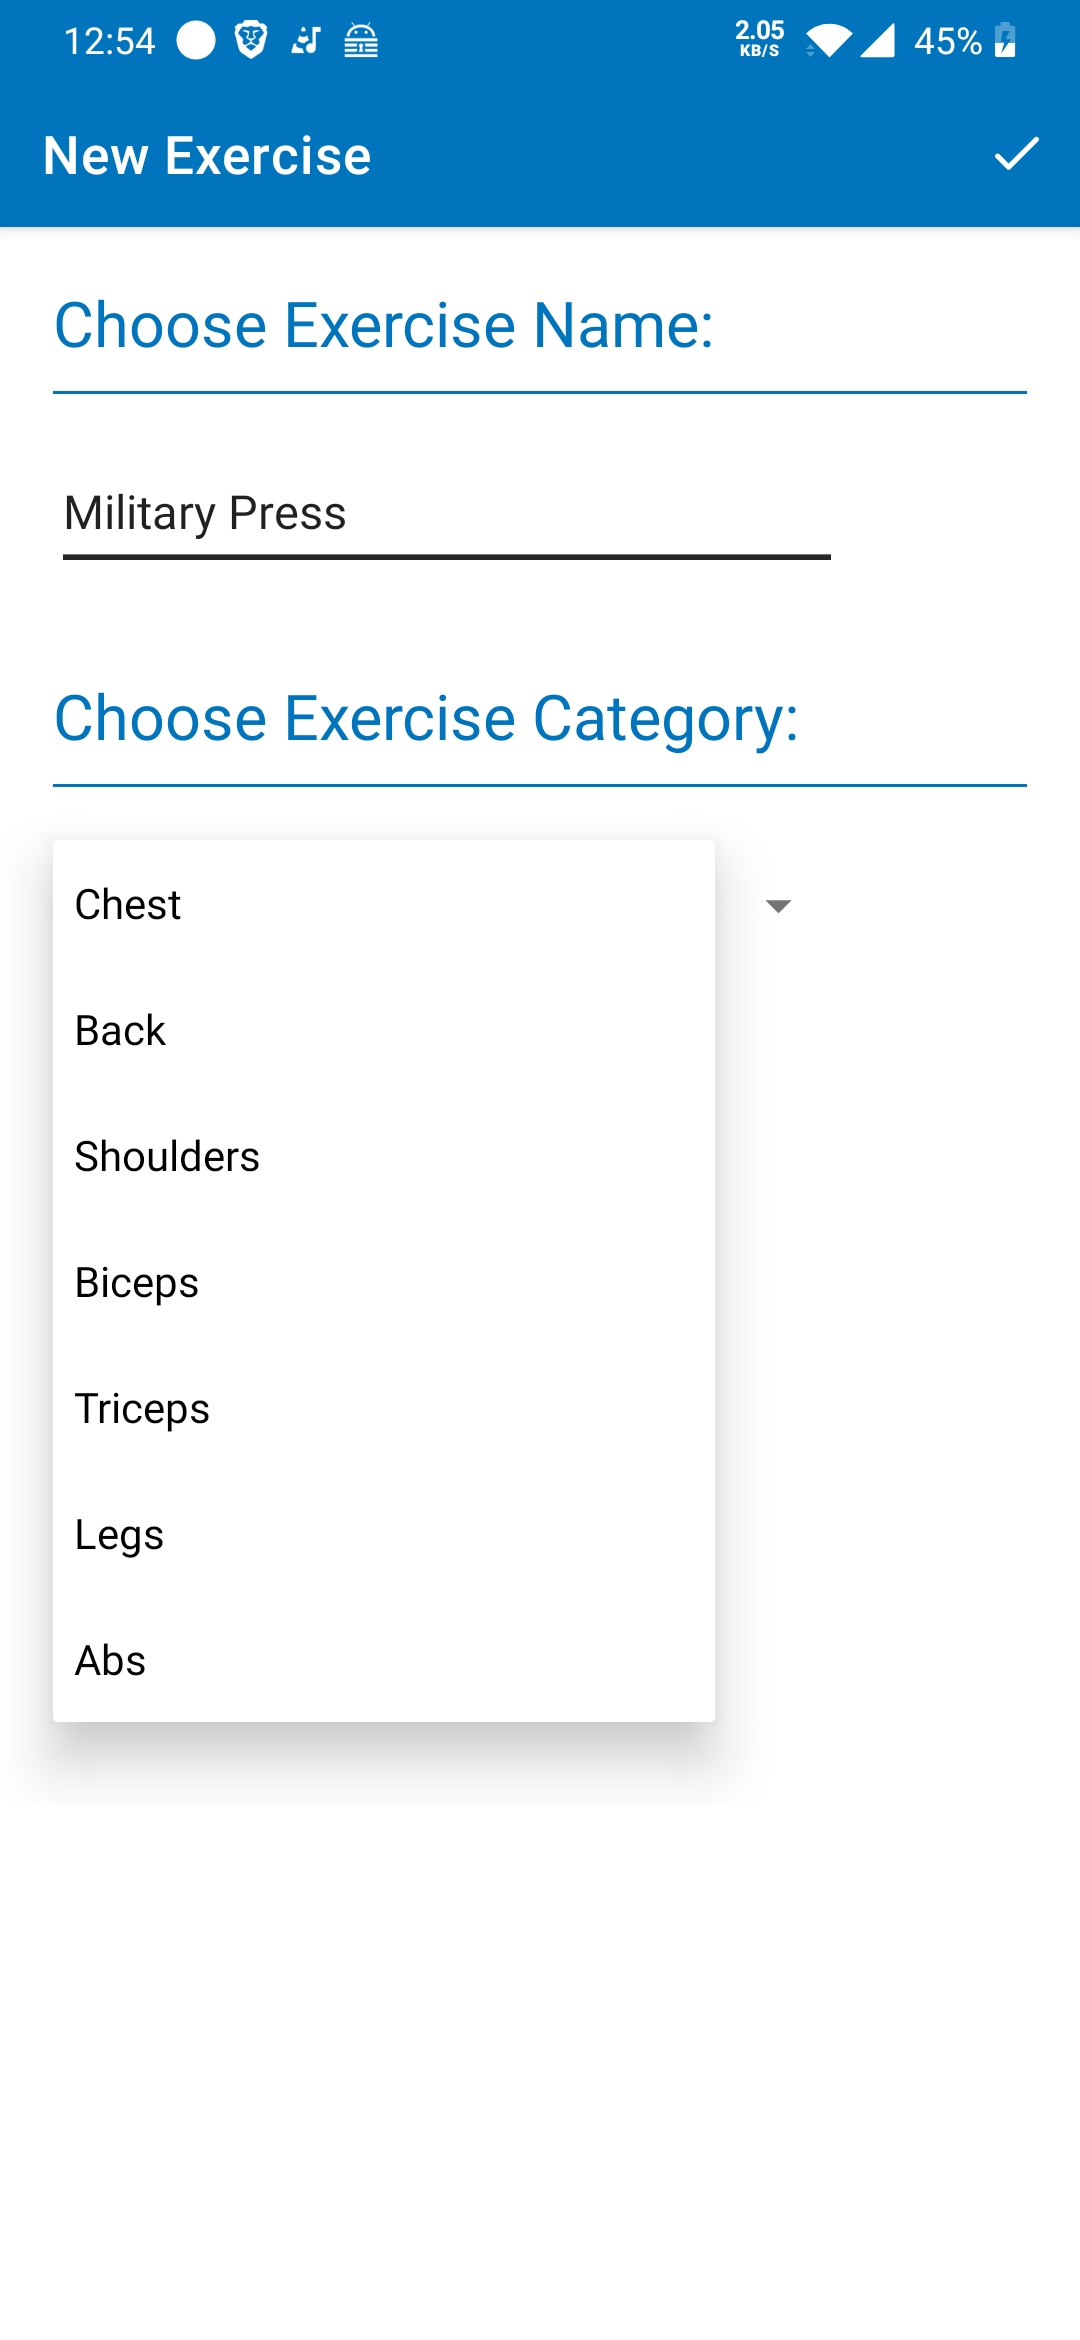
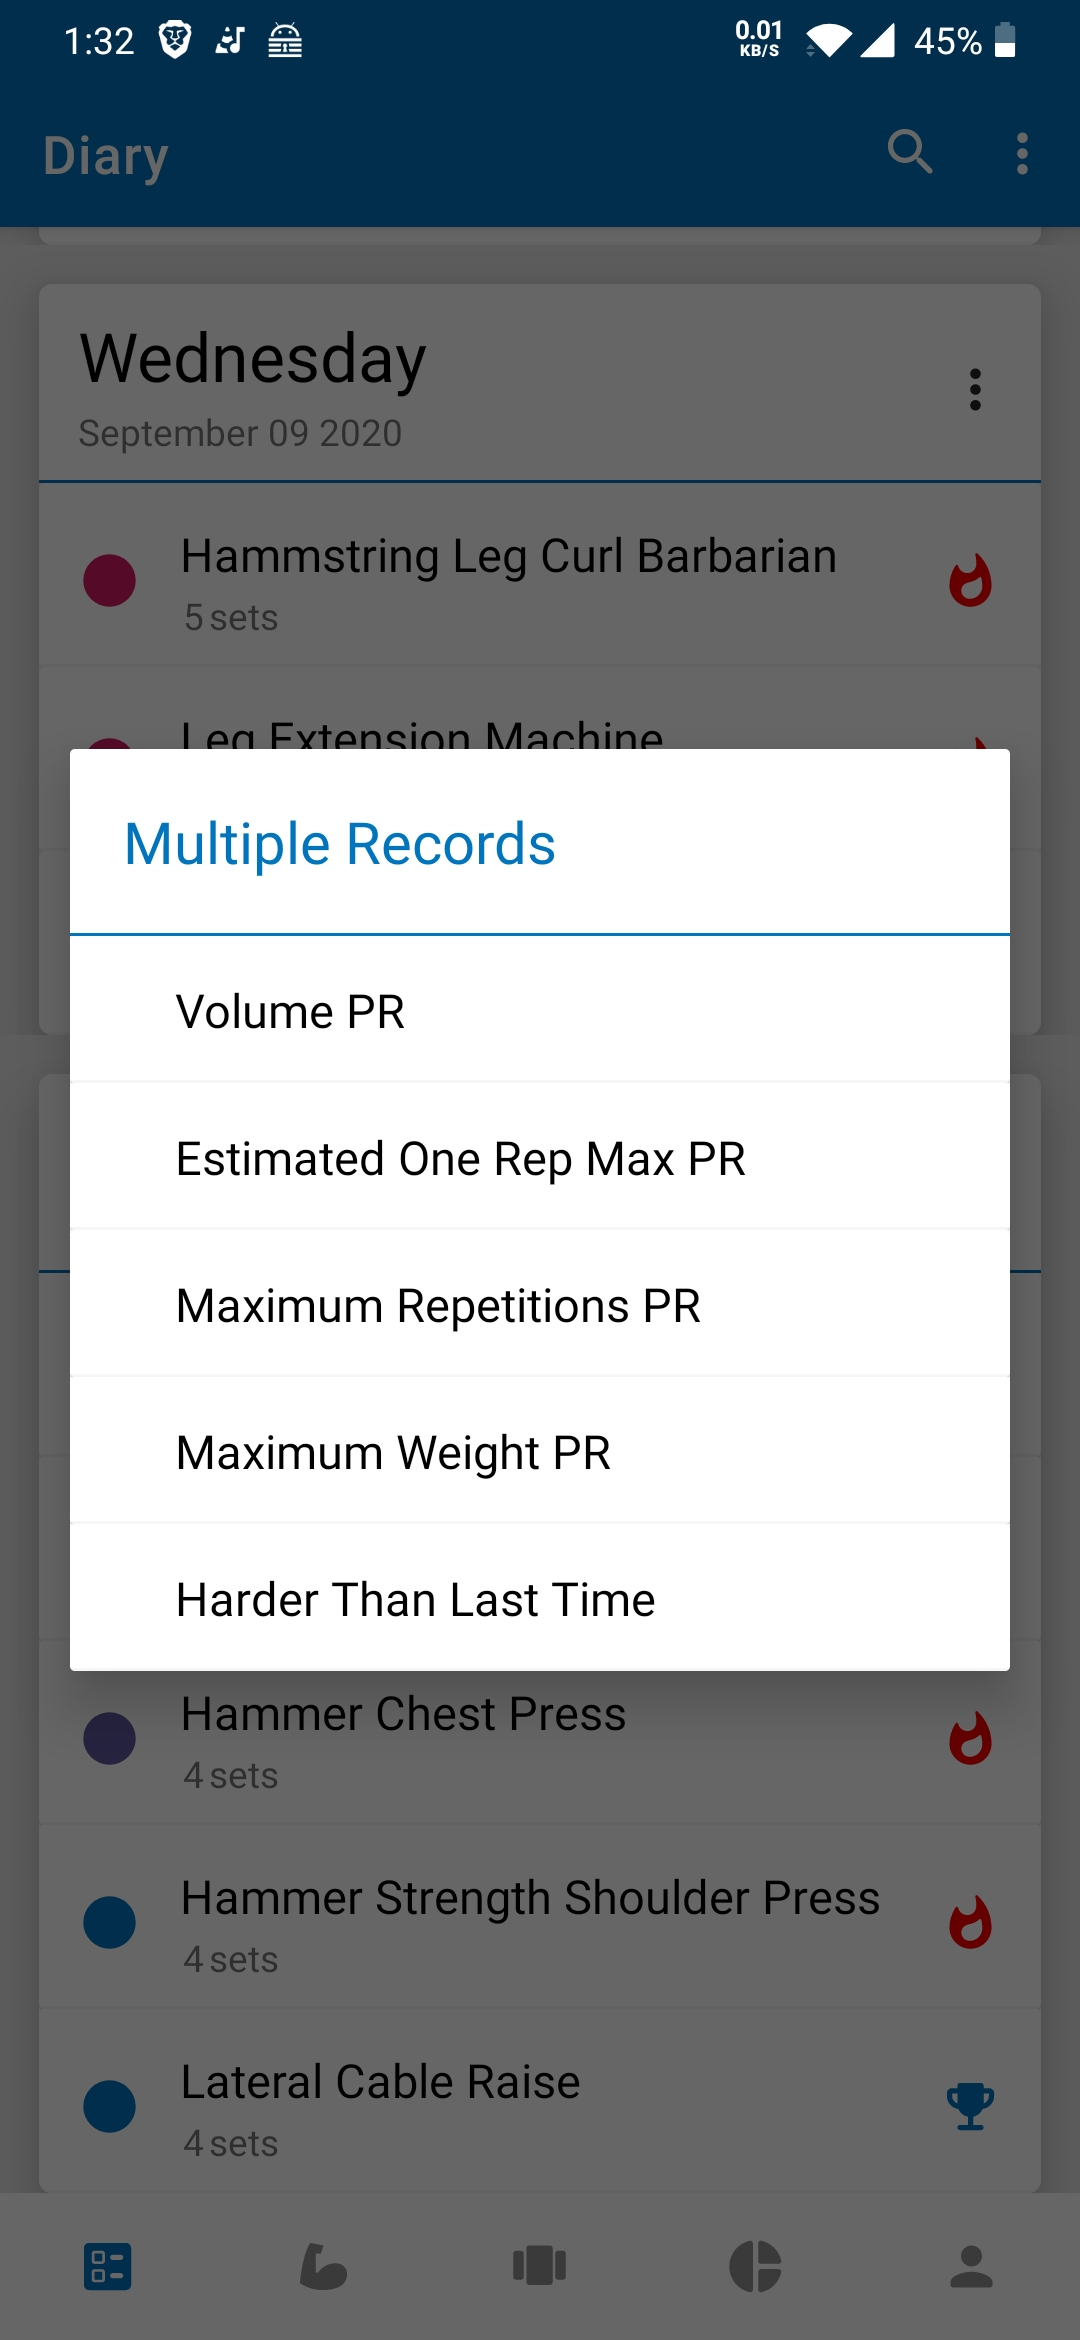
More Screenshots!

diff --git a/README.md b/README.md
@@ -1,4 +1,5 @@
 ## Verifit
+<img width="100" src="/metadata/logo/icon.svg">
 This app is a simple minimalist fitness tracker that I made mainly for myself. The UI is heavily inspired by FitNotes. It's purpose is to replace the traditional paper and pencil method for tracking progressive overload. It's primarily aimed for bodybuilding workout tracking. Since I made this with the primary user in mind being myself, it is not fully featured yet, but I do have future plans for adding extra features over time. It's probably full of bugs and bad code design since I made it from scratch but any suggestions are welcome.
 
 ## Features
@@ -12,6 +13,6 @@ This app is a simple minimalist fitness tracker that I made mainly for myself. T
 ## Screenshots
 <img width="200" src="/metadata/screenshots/Screenshot2.jpg"> <img width="200" src="/metadata/screenshots/Screenshot1.jpg"> <img width="200" src="/metadata/screenshots/Screenshot3.jpg"> <img width="200" src="/metadata/screenshots/Screenshot4.jpg">
 <img width="200" src="/metadata/screenshots/Screenshot5.jpg"> <img width="200" src="/metadata/screenshots/Screenshot6.jpg"> <img width="200" src="/metadata/screenshots/Screenshot7.jpg"> <img width="200" src="/metadata/screenshots/Screenshot8.jpg">
-
+<img width="200" src="/metadata/screenshots/Screenshot9.jpg"> <img width="200" src="/metadata/screenshots/Screenshot10.jpg"> <img width="200" src="/metadata/screenshots/Screenshot11.jpg"> <img width="200" src="/metadata/screenshots/Screenshot12.jpg">
 
 
